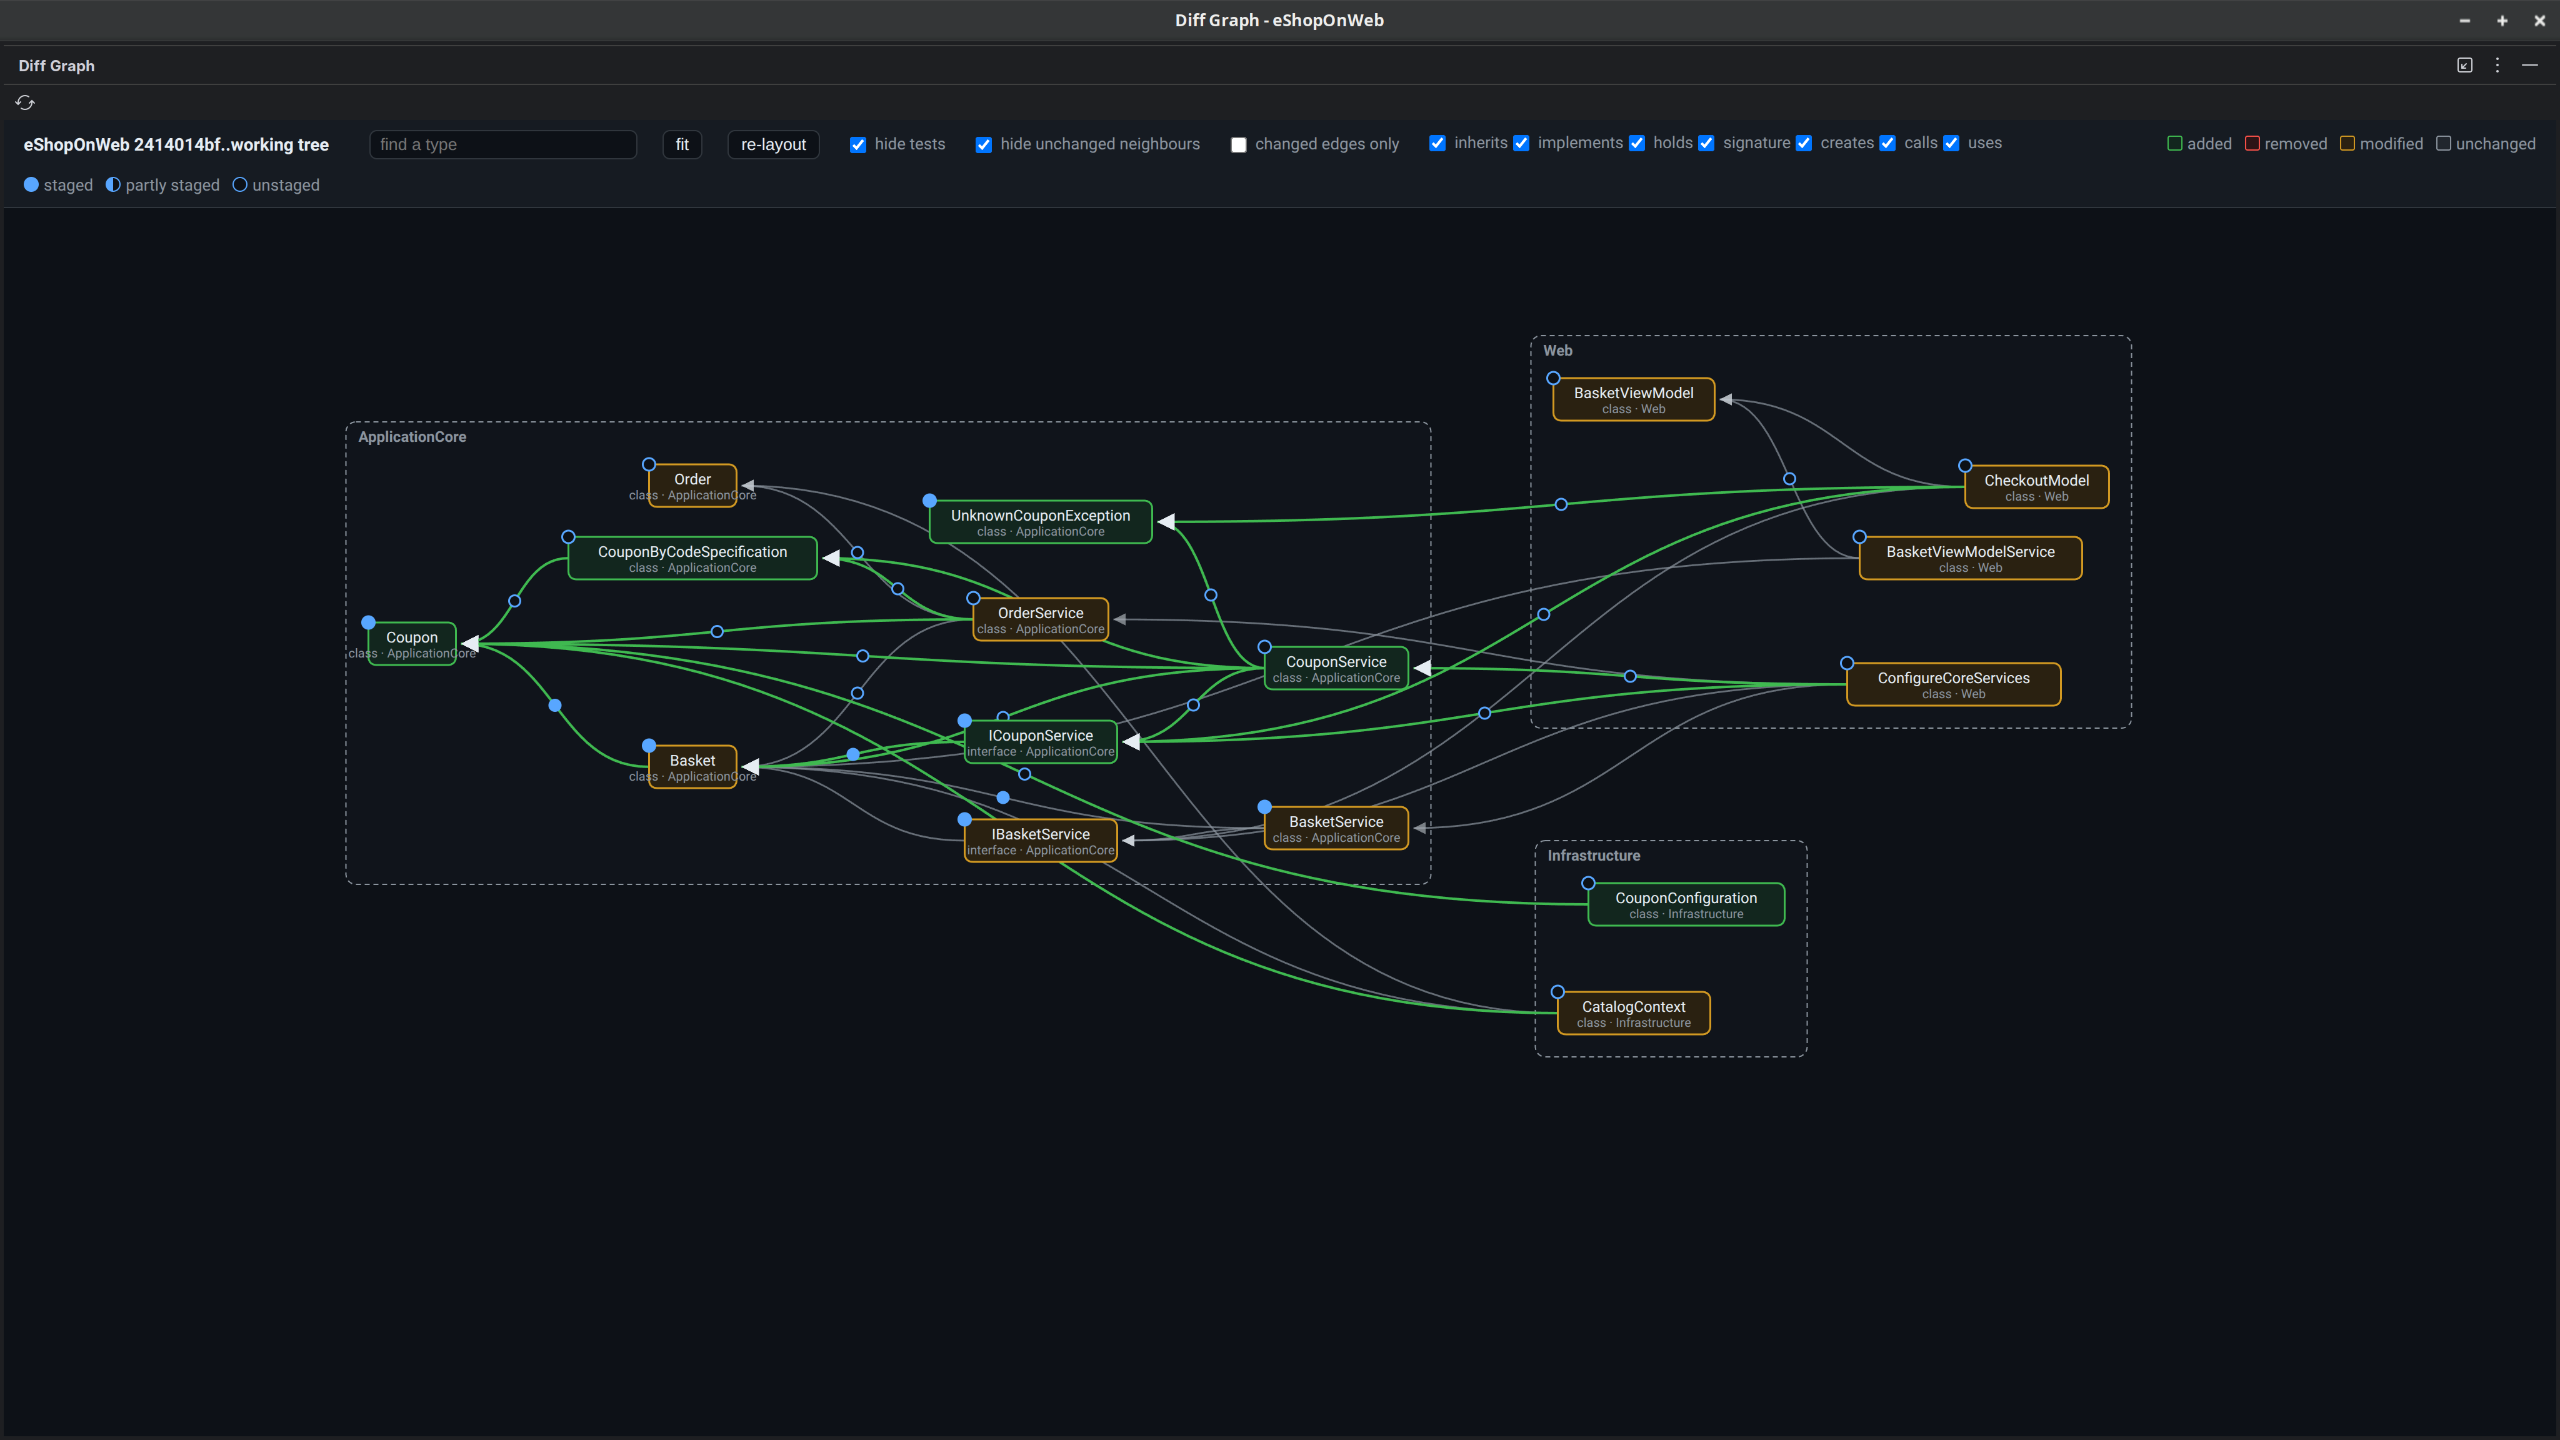
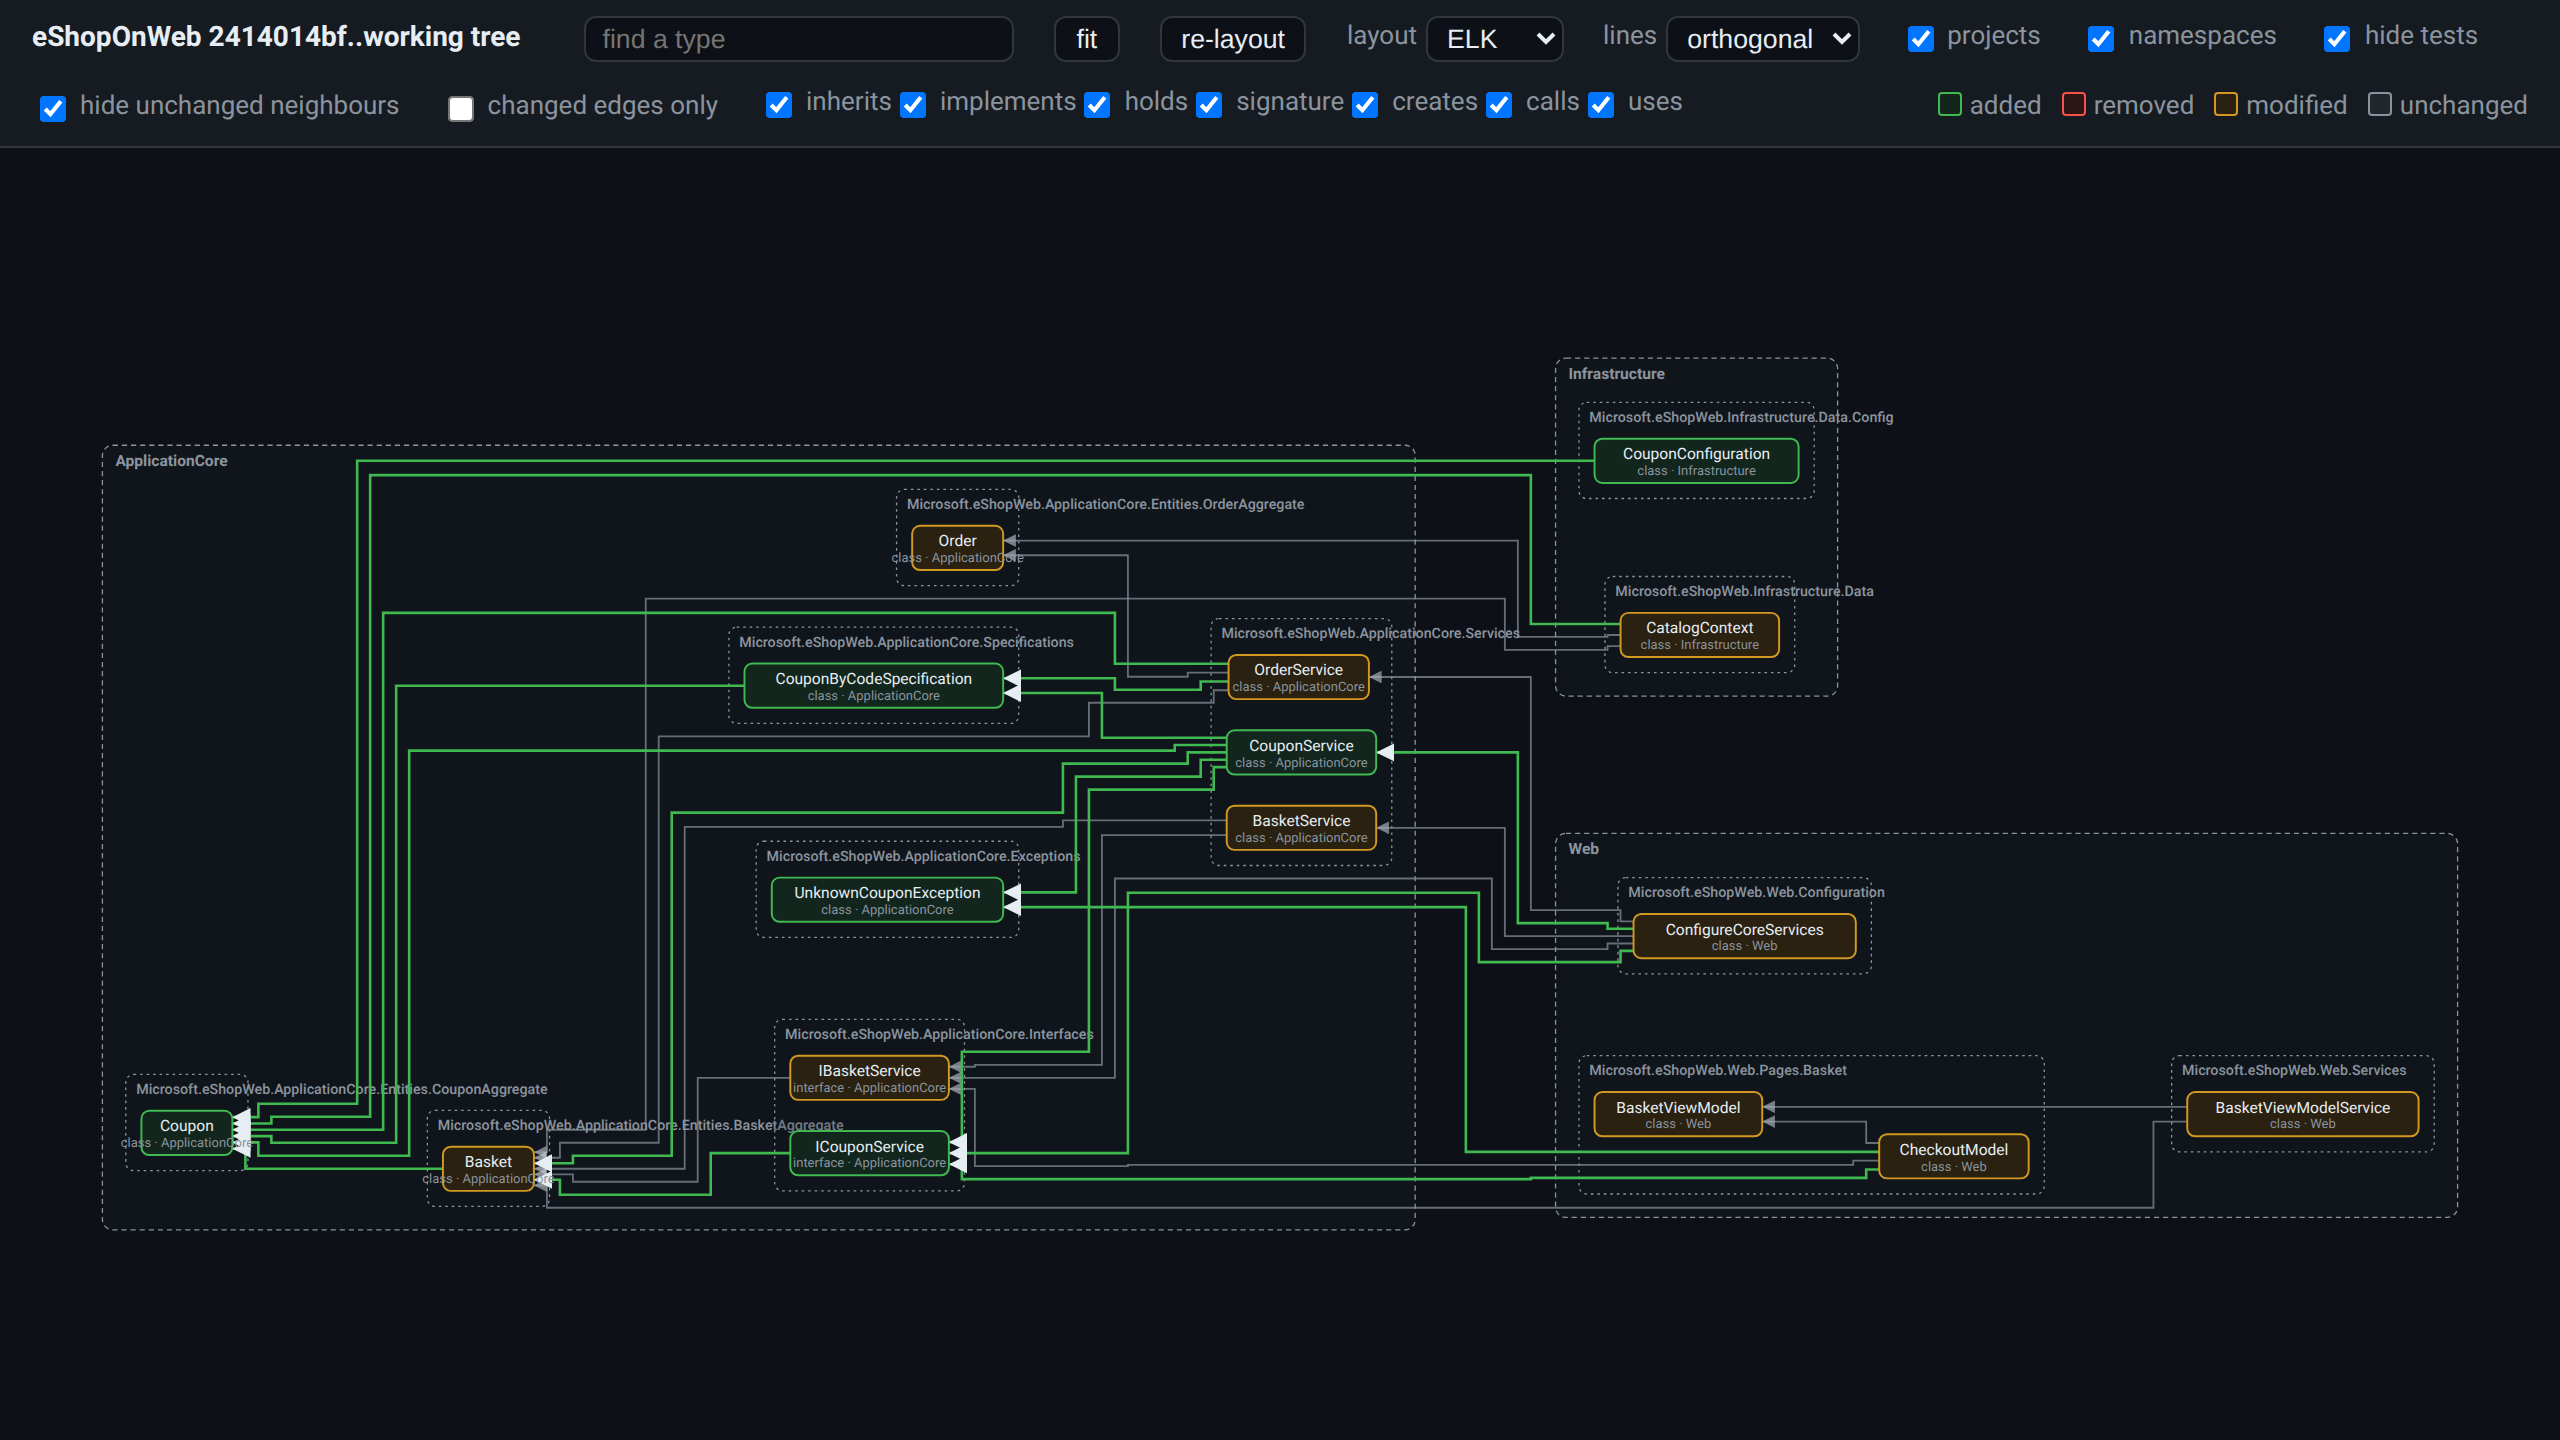
docs: changelog page, EULA licensor and new screenshots
The changelog lists 0.12.0, 0.11.1 and 0.11.0 newest first; the EULA names Iustinian Olaru as licensor; the screenshots show the ELK layout.

diff --git a/content/eula.md b/content/eula.md
@@ -3,14 +3,14 @@ title: "End User License Agreement"
 description: "The terms under which Diff Graph for Rider is licensed."
 ---
 
-**Effective date:** 2026-11-03 · **Licensor:** esio, Denmark (io@esio.dk) · **Software:** the Diff Graph for Rider
+**Effective date:** 2026-11-03 · **Licensor:** Iustinian Olaru, Denmark (io@esio.dk) · **Software:** the Diff Graph for Rider
 plugin, including its bundled analyser and all updates (the "Software").
 
 By installing or using the Software you agree to these terms. If you do not agree, do not install or use it.
 
 ## 1. License
 
-Subject to these terms and to a valid subscription or license purchased through JetBrains Marketplace, esio grants
+Subject to these terms and to a valid subscription or license purchased through JetBrains Marketplace, Iustinian Olaru grants
 you a personal, non-exclusive, non-transferable, revocable license to install and use the Software in JetBrains
 Rider for your own software development, on the number of seats your purchase covers.
 
@@ -23,19 +23,19 @@ build a product that competes with it; (e) circumvent its license checks.
 
 ## 3. Ownership
 
-The Software is licensed, not sold. esio and its licensors retain all right, title and interest in the Software,
+The Software is licensed, not sold. Iustinian Olaru and the Software's licensors retain all right, title and interest in the Software,
 including all intellectual property rights. Third-party components are listed in the plugin's distribution and are
 licensed under their own terms.
 
 ## 4. Data
 
 The Software analyses your repository on your machine. It does not transmit your source code, repository contents
-or analysis results to esio or to any third party. JetBrains Marketplace handles licensing and may process the data
+or analysis results to Iustinian Olaru or to any third party. JetBrains Marketplace handles licensing and may process the data
 described in the JetBrains privacy policy.
 
 ## 5. Updates and support
 
-esio may release updates through JetBrains Marketplace. Support is provided on a reasonable-effort basis through
+Iustinian Olaru may release updates through JetBrains Marketplace. Support is provided on a reasonable-effort basis through
 the issue tracker at the address shown on the product page.
 
 ## 6. Term and termination
@@ -50,8 +50,8 @@ merchantability, fitness for a particular purpose and non-infringement.
 
 ## 8. Limitation of liability
 
-To the maximum extent permitted by law, esio is not liable for any indirect, incidental, special, consequential or
-punitive damages, or for loss of data, profits or business, arising from the Software, and esio's total liability
+To the maximum extent permitted by law, Iustinian Olaru is not liable for any indirect, incidental, special, consequential or
+punitive damages, or for loss of data, profits or business, arising from the Software, and Iustinian Olaru's total liability
 under this agreement is limited to the amount you paid for the Software in the twelve months before the claim.
 Nothing here limits liability that cannot be limited under applicable law.
 
@@ -62,4 +62,4 @@ prejudice to mandatory consumer protection rules of your country of residence.
 
 ## 10. Contact
 
-esio · io@esio.dk
+Iustinian Olaru · io@esio.dk

diff --git a/content/changelog.md b/content/changelog.md
@@ -1,19 +1,49 @@
 ---
 title: "Changelog"
-description: "What changed in each release of Diff Graph for Rider."
+description: "What changed in each release of GitDiffGraph for Rider."
 ---
 
-## 2026.1.0
+## 0.12.0
 
-- A new layout lays out the whole graph in one pass: fewer crossing lines, and every line routed around types and boxes. The previous layout stays one click away in the header.
-- Project and namespace boxes, each switched on or off in the header.
+**Layout**
+
+- A new layout draws the whole graph in one pass, with few crossing lines, and routes every line around types and
+  boxes. The previous layout stays one click away in the header.
+- Project and namespace boxes, nested, each switched on or off in the header.
 - A line style choice: orthogonal, straight or curved.
 - Selecting a type, a dependency line or files in the Commit view zooms the graph to what is highlighted.
 - Types and boxes are no longer dragged by hand: the layout places everything, so the lines always stay routed.
 
+**Staging**
+
+- The graph always shows the whole working tree, with a stage badge on every type and line; the staged-only toggle
+  is gone.
+- The right-click menu says **Stage** and **Unstage**.
+
+**Licensing**
+
+- A JetBrains Marketplace licence or trial is required; the tool window asks for one, with a key button to enter it.
+
+**Name**
+
+- The plugin, its tool window and its action are named **GitDiffGraph**.
+
+**Fixes**
+
+- A repository with more than one solution file: the graph analyses the solution Rider has open.
+- The plugin finds its bundled analyser in every Rider install.
+
 ## 0.11.1
 
-- Staged and working-tree snapshots: the graph of what is staged, or of the whole working tree.
-- Stage and unstage types and dependency lines from the graph.
-- Commit view grouping: clicking a type opens Rider's diff; Commit view selection highlights the graph.
-- The Diff Graph tool window, with a refresh action (`Ctrl+Shift+Alt+G`).
+- Stage and unstage a type, or the lines behind a dependency, from the graph's right-click menu.
+- Stage badges on every type and dependency line: staged, partly staged, unstaged.
+
+## 0.11.0
+
+- The **Diff Graph** tool window draws your uncommitted C# change as the graph of the types it touches, opened with
+  `Ctrl+Shift+Alt+G`.
+- Click a type to open Rider's diff of its files, the same diff the Commit view shows.
+- Click a dependency line to see the changed lines that create it.
+- Select files in the Commit view to highlight their types in the graph.
+- A staged-only toggle limits the graph and the diff to what is staged.
+- The graph refreshes by itself as files change; **Refresh** restarts the analysis.
